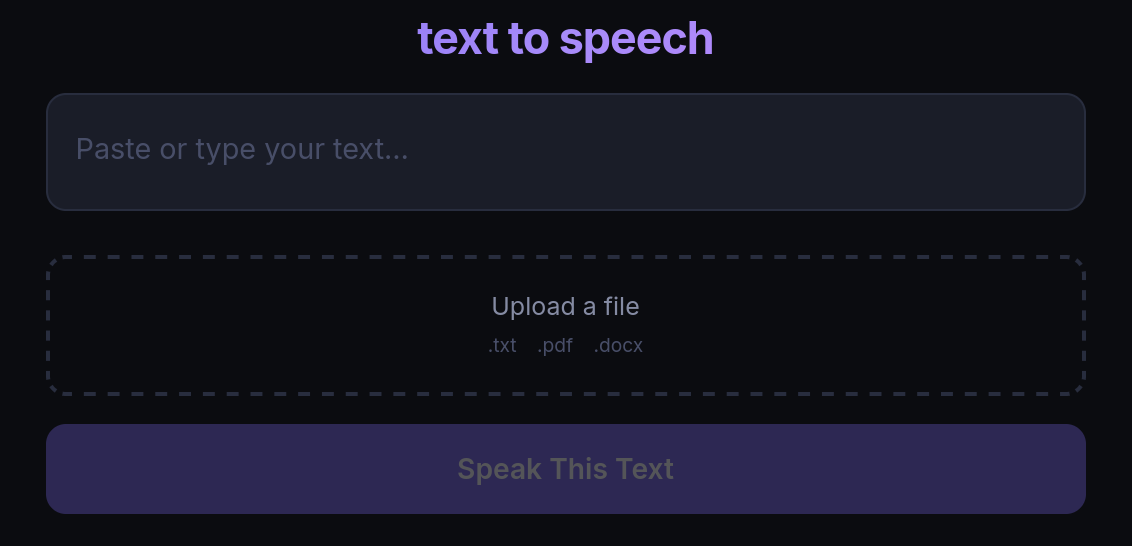
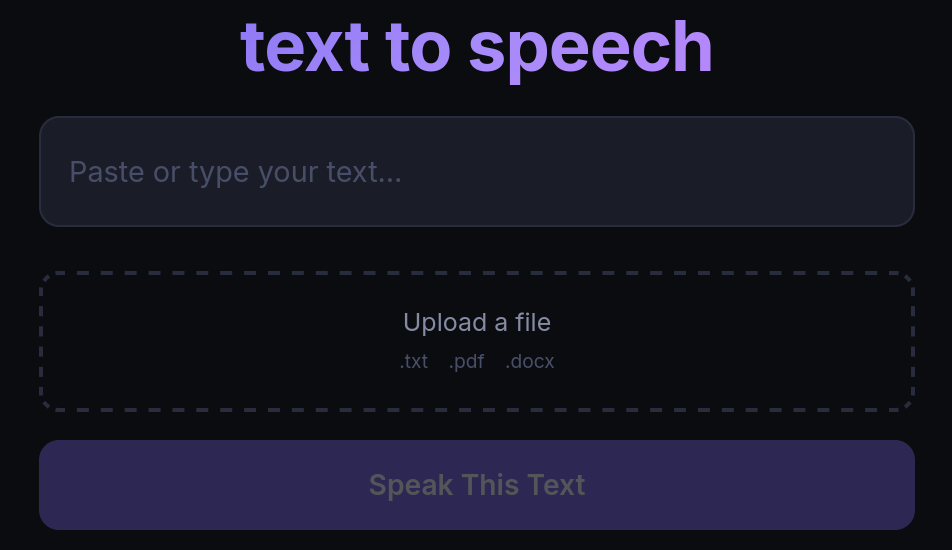
final tts update.

diff --git a/tools/tts/index.html b/tools/tts/index.html
@@ -19,7 +19,7 @@ html,body{height:100%;overflow:hidden}
 body{font-family:'Inter',system-ui,sans-serif;background:var(--bg);color:var(--tx);display:flex;align-items:center;justify-content:center}
 .screen{display:none;flex-direction:column;position:absolute;inset:0;width:100%;max-width:560px;margin:0 auto;padding:20px;overflow:hidden}
 .screen.active{display:flex}
-.title{text-align:center;font-weight:700;letter-spacing:-.5px;background:linear-gradient(135deg,var(--ac),#a78bfa,#c084fc);-webkit-background-clip:text;-webkit-text-fill-color:transparent;font-size:1.4rem}
+.title{text-align:center;font-weight:700;letter-spacing:-.5px;background:linear-gradient(135deg,var(--ac),#a78bfa,#c084fc);-webkit-background-clip:text;-webkit-text-fill-color:transparent;font-size:2.2rem}
 .title.sm{font-size:.85rem}
 
 .s1{gap:14px}.s1-body{flex:1;display:flex;flex-direction:column;justify-content:center;gap:14px;overflow:hidden}
@@ -67,7 +67,7 @@ input[type=range]::-moz-range-thumb{width:20px;height:20px;background:var(--ac);
 @keyframes spin{to{transform:rotate(360deg)}}
 .ov-label{font-size:.78rem;color:var(--tx2);text-align:center}
 .ov-bar{width:80%;max-width:300px;height:6px;background:var(--s3);border-radius:3px;overflow:hidden}
-.ov-bar-fill{height:100%;width:0%;background:linear-gradient(90deg,var(--ac),#a78bfa);border-radius:3px;transition:width .2s}
+.ov-bar-fill{height:100%;width:0%;background:linear-gradient(90deg,var(--ac),#a78bfa);border-radius:3px}
 .ov-pct{font-size:.85rem;font-weight:700;color:var(--ac);font-variant-numeric:tabular-nums}
 .tport{flex-shrink:0;padding:10px 0 4px}
 .pbar{cursor:pointer;padding:4px 0}
@@ -83,7 +83,7 @@ input[type=range]::-moz-range-thumb{width:20px;height:20px;background:var(--ac);
 .stat{text-align:center;font-size:.62rem;color:var(--tx3);padding:2px 0;flex-shrink:0;min-height:16px}
 .stat.on{color:var(--grn)}.stat.err{color:var(--red)}
 @supports(padding-bottom:env(safe-area-inset-bottom)){.screen{padding-bottom:calc(20px + env(safe-area-inset-bottom))}}
-@media(max-width:400px){.title{font-size:1.2rem}#textInput{font-size:.84rem;padding:12px}.rpane{padding:14px;font-size:.84rem}.cb{width:36px;height:36px}.cb.main{width:44px;height:44px}}
+@media(max-width:400px){.title{font-size:1.7rem}#textInput{font-size:.84rem;padding:12px}.rpane{padding:14px;font-size:.84rem}.cb{width:36px;height:36px}.cb.main{width:44px;height:44px}}
 </style>
 </head>
 <body>
@@ -276,7 +276,8 @@ async function generateAudio(text,voice){
   for(let i=0;i<chunks.length;i++){
     const pct=Math.round((i/chunks.length)*100);
     setGP(pct,`Generating speech… chunk ${i+1} of ${chunks.length}`);
-    await new Promise(r=>setTimeout(r,10));
+    // Yield + force repaint so bar actually renders before next chunk blocks thread
+    await new Promise(r=>requestAnimationFrame(()=>setTimeout(r,50)));
 
     const result=await tts.generate(chunks[i],{voice});
     sr=result.sampling_rate;
